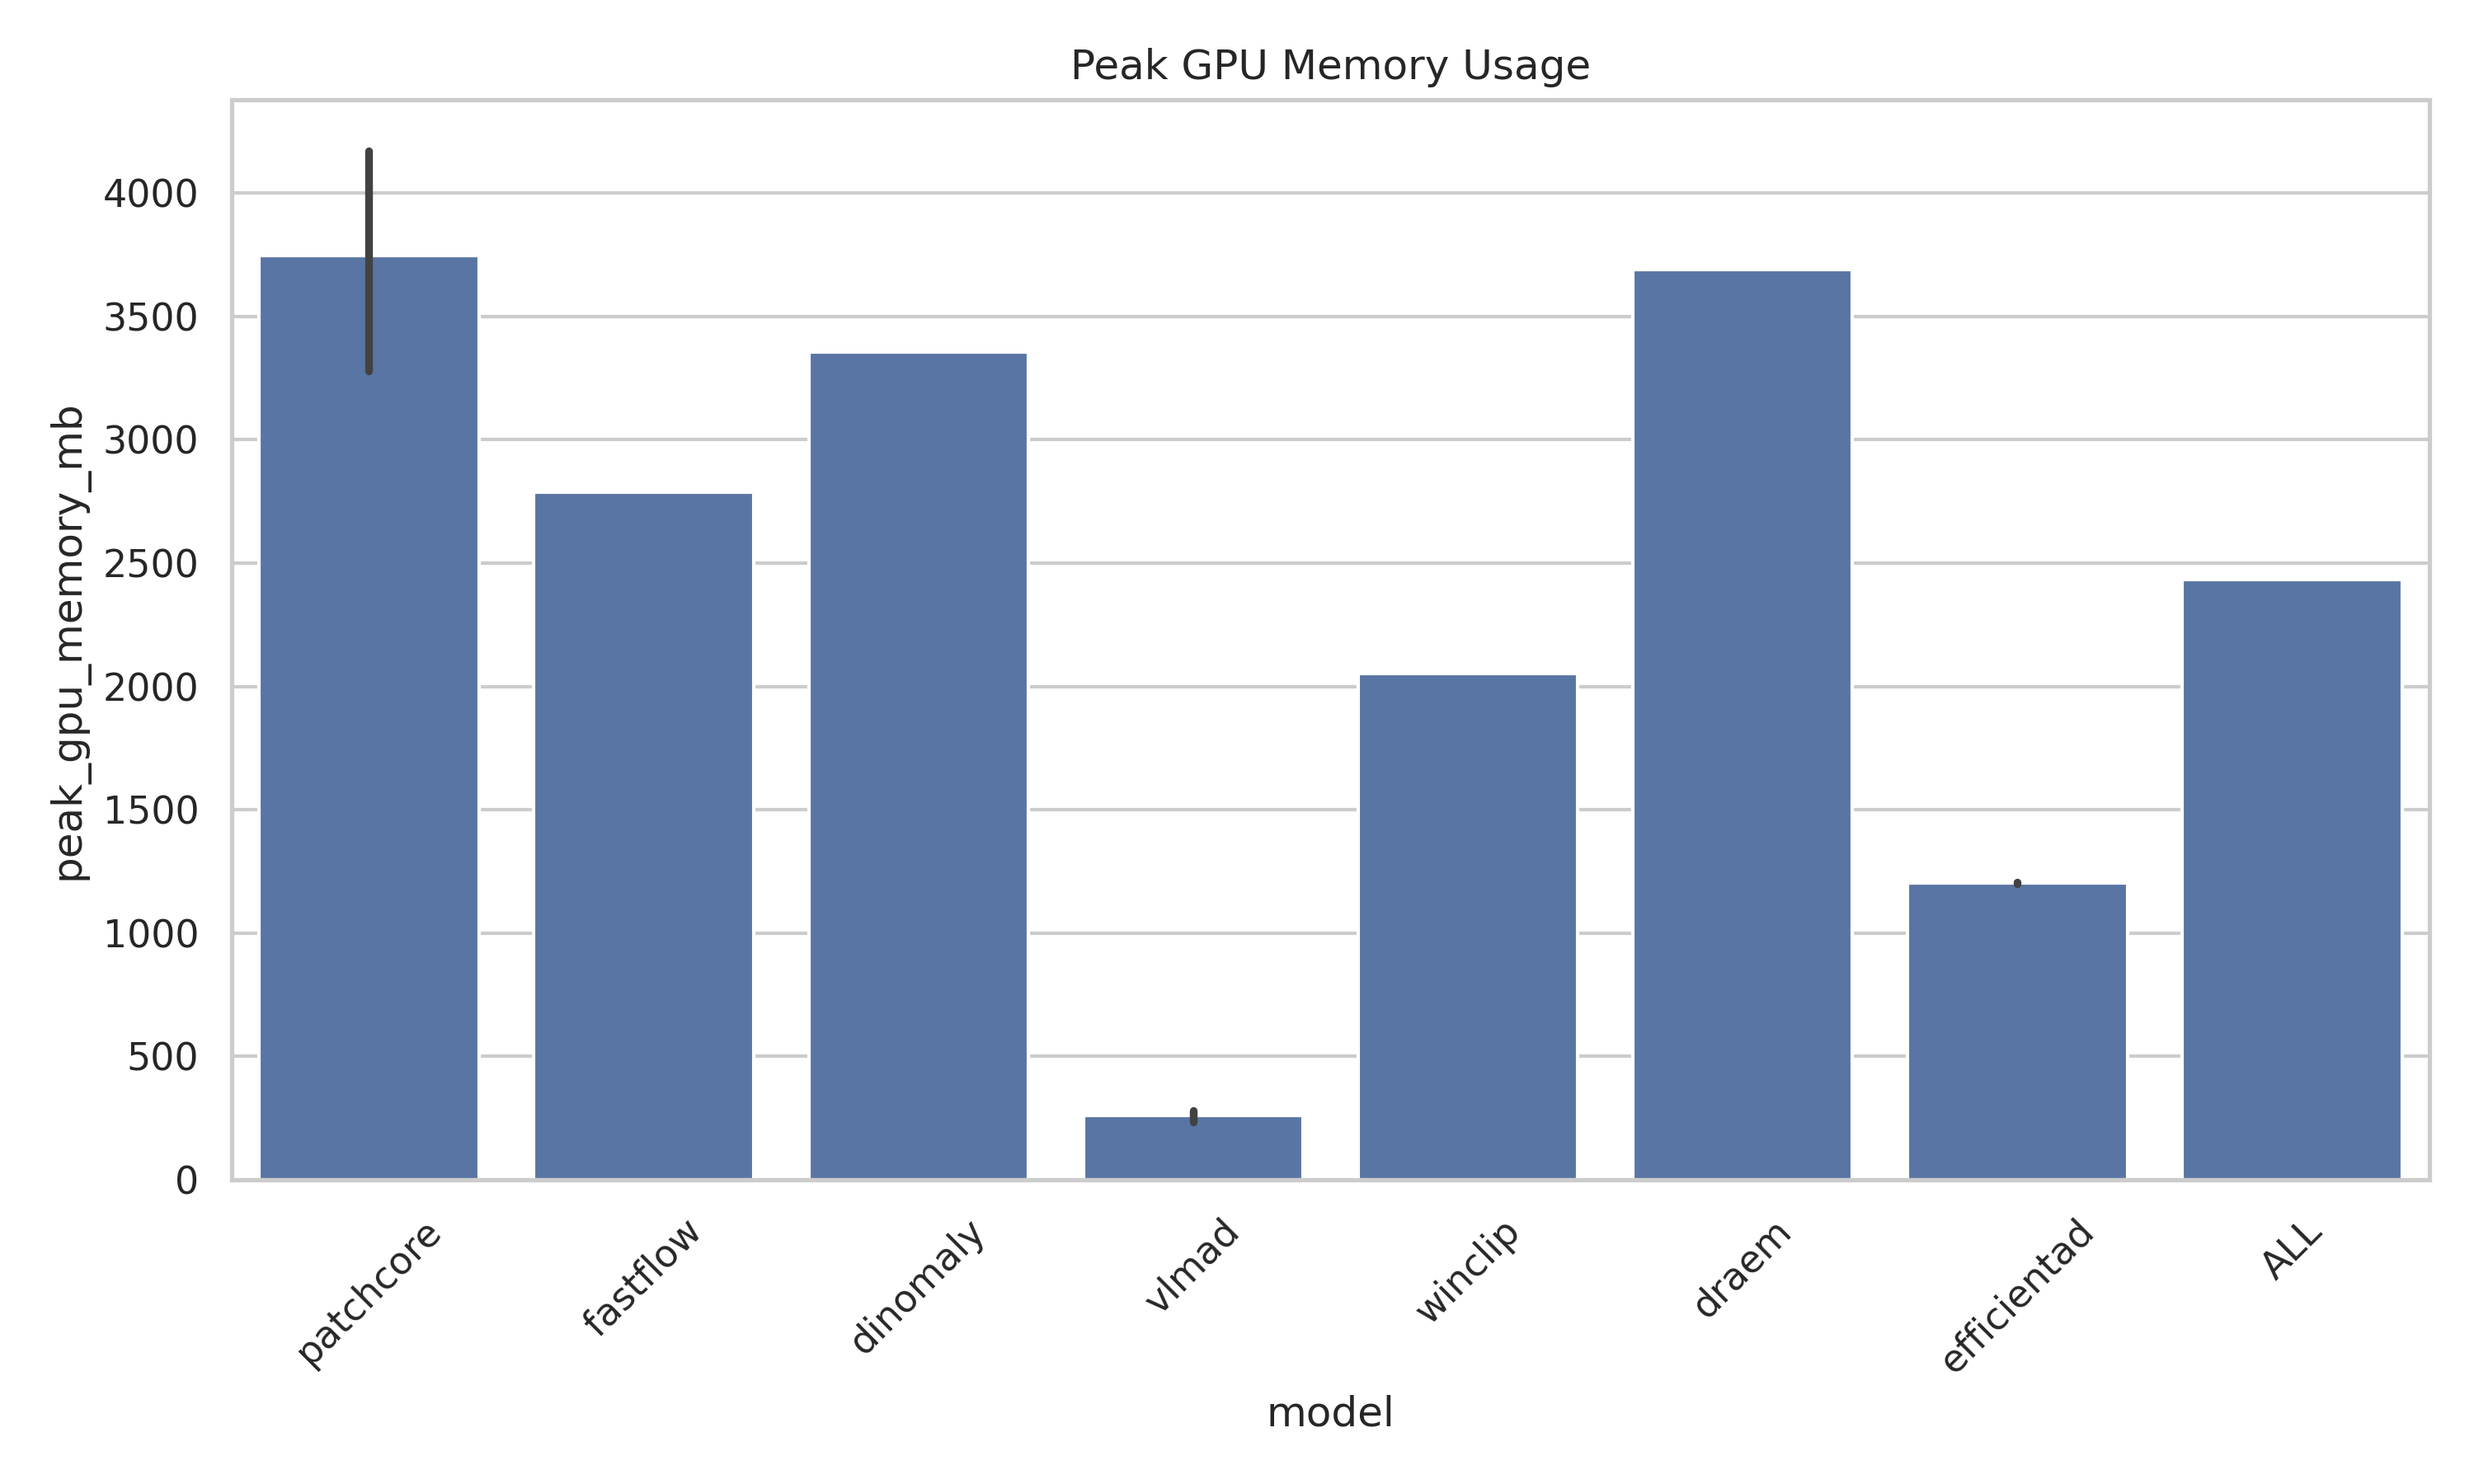
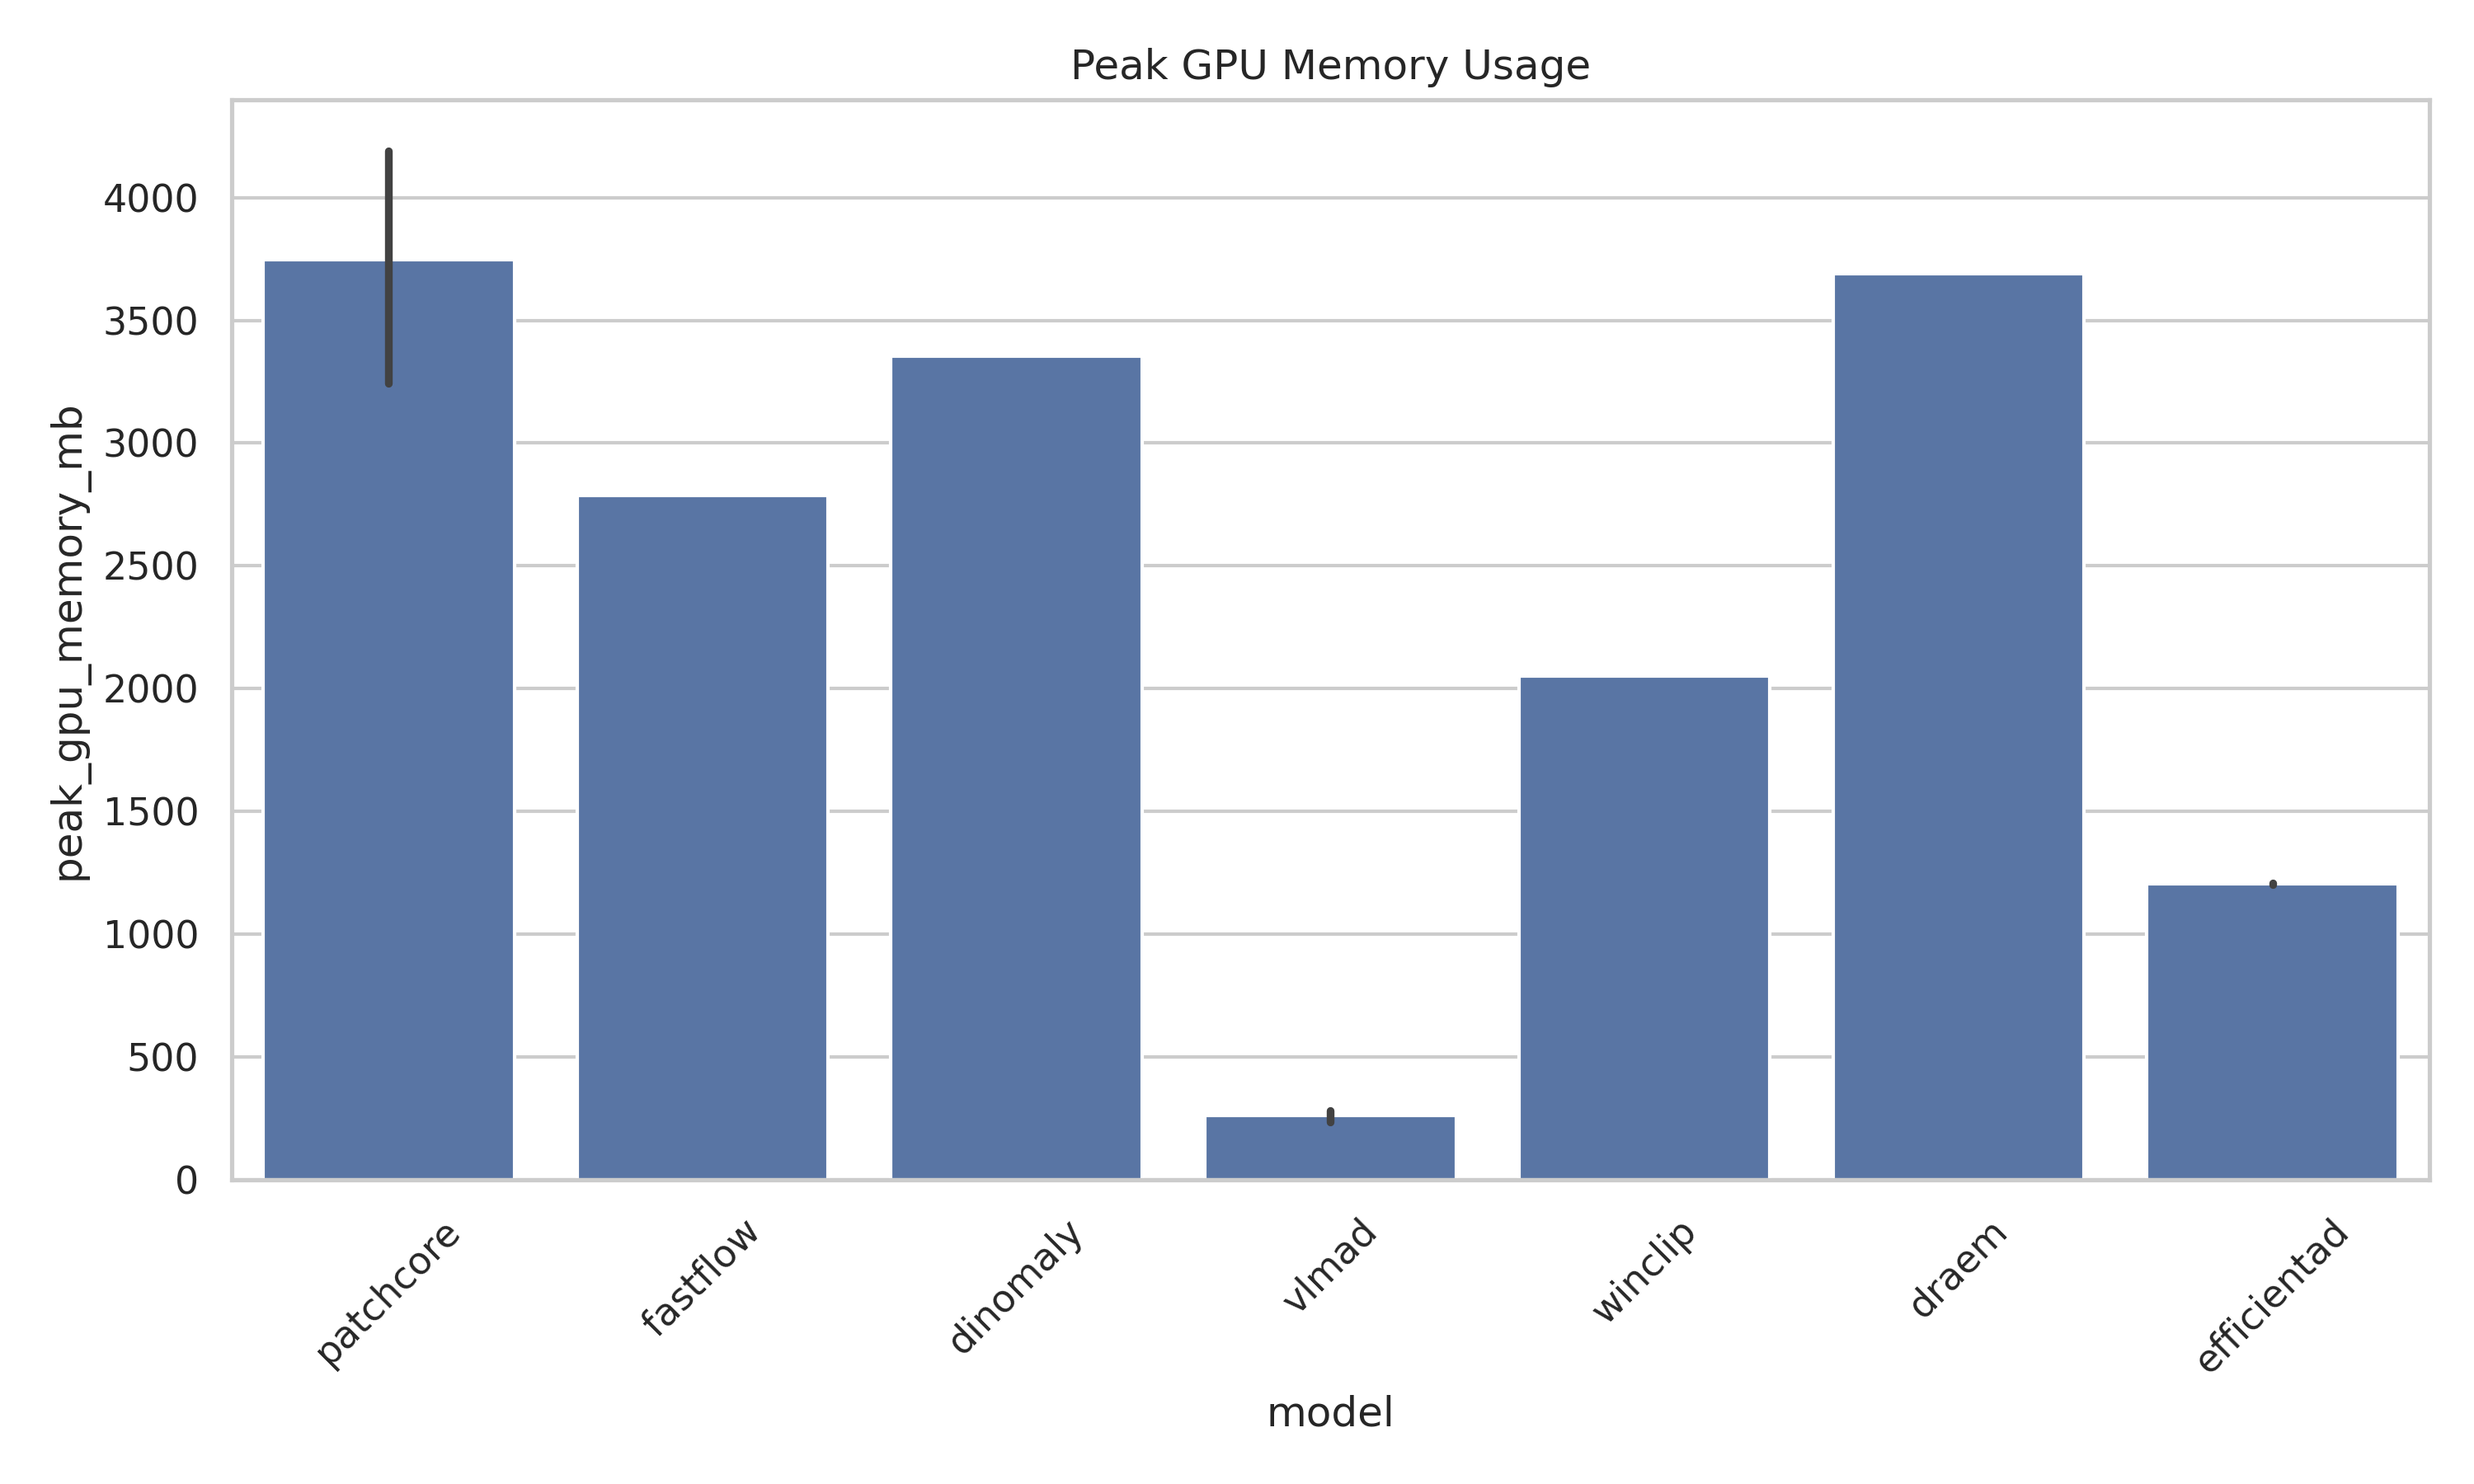
Updates plots

diff --git a/comparisons_plot.py b/comparisons_plot.py
@@ -15,7 +15,7 @@ sns.set_theme(style="whitegrid")
 # --------------------------------------------------
 df = pd.read_csv("mvtec_results.csv")
 
-# Work on a copy to avoid pandas warnings
+df = df[df["model"] != "ALL"]
 df_clean = df.copy()
 
 print("Models found:", sorted(df_clean["model"].unique()))
@@ -76,18 +76,42 @@ if not data.empty:
 data = df_clean.dropna(subset=["inference_fps", "image_AUROC"])
 
 if not data.empty:
-    plt.figure(figsize=(8,6))
 
+    model_avg = (
+        data.groupby("model", as_index=False)
+        .mean(numeric_only=True)
+    )
+
+    plt.figure(figsize=(9,7))
+
+    # Category-level points
     sns.scatterplot(
         data=data,
         x="inference_fps",
         y="image_AUROC",
         hue="model",
-        s=120
+        alpha=0.25,
+        legend=False
     )
 
-    for _, row in data.iterrows():
-        plt.text(row["inference_fps"], row["image_AUROC"], row["model"])
+    # Model averages
+    sns.scatterplot(
+        data=model_avg,
+        x="inference_fps",
+        y="image_AUROC",
+        hue="model",
+        s=300,
+        marker="X"
+    )
+
+    for _, row in model_avg.iterrows():
+        plt.text(
+            row["inference_fps"],
+            row["image_AUROC"],
+            row["model"],
+            fontsize=11,
+            weight="bold"
+        )
 
     plt.title("Speed vs Accuracy")
     save_plot("speed_vs_accuracy")
@@ -135,23 +159,47 @@ if not eff.empty:
 
 
 # --------------------------------------------------
-# Accuracy vs Memory
+# Accuracy vs GPU Memory
 # --------------------------------------------------
 data = df_clean.dropna(subset=["peak_gpu_memory_mb", "image_AUROC"])
 
 if not data.empty:
-    plt.figure(figsize=(8,6))
 
+    model_avg = (
+        data.groupby("model", as_index=False)
+        .mean(numeric_only=True)
+    )
+
+    plt.figure(figsize=(9,7))
+
+    # Category-level points (faint)
     sns.scatterplot(
         data=data,
         x="peak_gpu_memory_mb",
         y="image_AUROC",
         hue="model",
-        s=120
+        alpha=0.25,
+        legend=False
     )
 
-    for _, row in data.iterrows():
-        plt.text(row["peak_gpu_memory_mb"], row["image_AUROC"], row["model"])
+    # Model averages
+    sns.scatterplot(
+        data=model_avg,
+        x="peak_gpu_memory_mb",
+        y="image_AUROC",
+        hue="model",
+        s=300,
+        marker="X"
+    )
+
+    for _, row in model_avg.iterrows():
+        plt.text(
+            row["peak_gpu_memory_mb"],
+            row["image_AUROC"],
+            row["model"],
+            fontsize=11,
+            weight="bold"
+        )
 
     plt.title("Accuracy vs GPU Memory")
     save_plot("accuracy_vs_memory")
